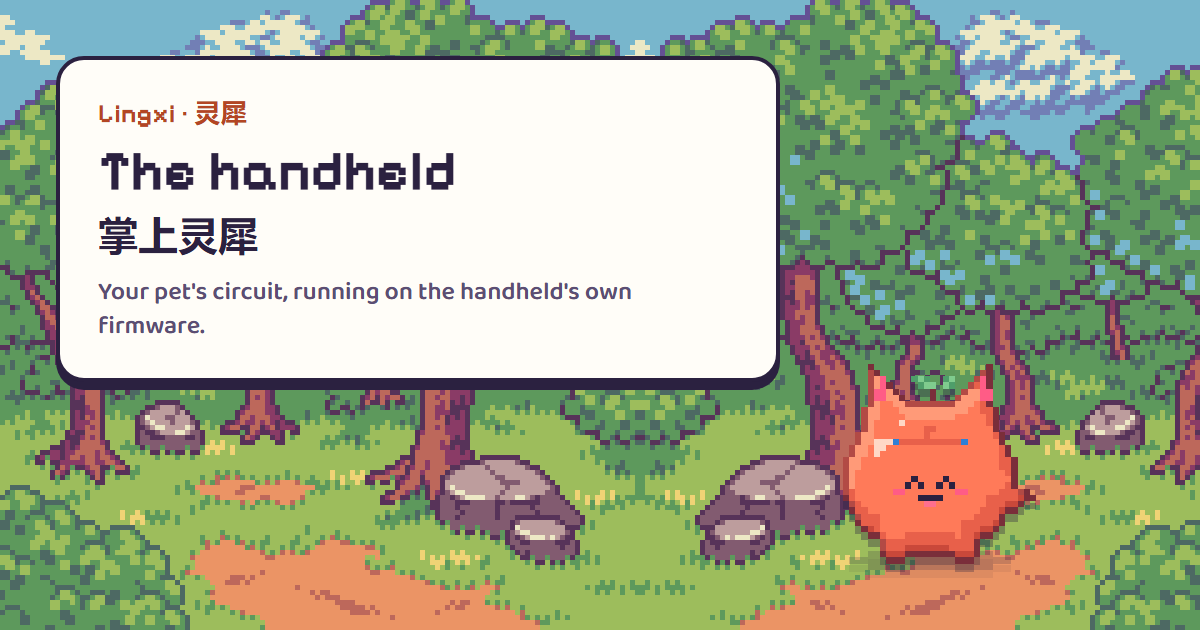
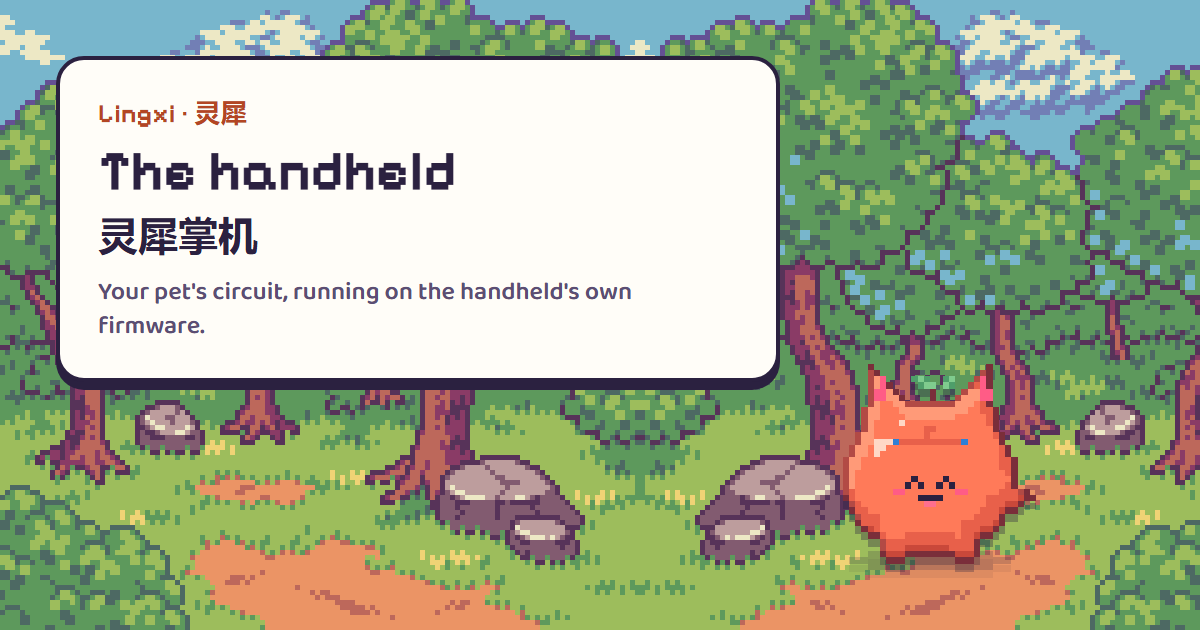
feat(web): one word for each of the game's terms, held by a glossary check
P6. Some terms appeared under two Chinese names, so a player could take one
thing for two: the arena (竞技场 and 切磋场), the handheld (灵犀掌机 and
掌上灵犀), a pet left with a sitter (照看 and 托管), and verifying (验证 and
核验; the proof page's tab title even said 核对 while its heading said
验证). glossary.ts names each term once in both languages, with what it
means, and glossary.test.ts fails on any word it rules out across the
game, the world's characters and the static pages.

Changed region(s): [[0.0617, 0.3317, 0.2158, 0.4222]]

diff --git a/apps/web/src/i18n/glossary.ts b/apps/web/src/i18n/glossary.ts
@@ -1,0 +1,67 @@
+/**
+ * P6: the game's terms, one word each in English and in Chinese. A player who meets the same thing under two names
+ * thinks they are two things; glossary.test.ts fails when any shown text uses a word this list rules out. Where a
+ * Chinese word has another, unrelated meaning the game also uses (托管 is the red packet's escrow), only the phrasing
+ * that means this term is ruled out.
+ */
+
+export interface Term {
+  en: string;
+  zh: string;
+  /** what the term means here, so a new string can pick the right word */
+  means: string;
+  /** Chinese renderings of this term the game does not use */
+  notZh?: readonly RegExp[];
+  /** English renderings of this term the game does not use */
+  notEn?: readonly RegExp[];
+}
+
+export const GLOSSARY: readonly Term[] = [
+  { en: "pet", zh: "宠物", means: "the creature a player raises" },
+  { en: "mind", zh: "心智", means: "everything a pet has learned, as the circuit that decides what it does" },
+  { en: "brain", zh: "大脑", means: "the circuit itself, as gates and latches; a pet's mind runs on its brain" },
+  { en: "circuit", zh: "电路", means: "a netlist of NAND gates and latches", notZh: [/线路/] },
+  { en: "NAND gate", zh: "与非门", means: "the one kind of gate every circuit is made of", notZh: [/逻辑门/] },
+  { en: "lesson", zh: "课", means: "one rule a player teaches, in their own words", notZh: [/教程/] },
+  { en: "instinct", zh: "本能", means: "a rule a pet is born with or adopts", notZh: [/天性/, /直觉/] },
+  {
+    en: "tape out (verb), tape-out (noun)",
+    zh: "流片",
+    means: "turning a circuit into a TapeOut token on X Layer",
+    notZh: [/刻录/],
+  },
+  {
+    en: "keep on X Layer",
+    zh: "留在 X Layer 上",
+    means: "a pet given its own record on X Layer, so its mind is taped out and its days can be saved",
+    notZh: [/放到链上/],
+  },
+  { en: "save a day", zh: "存到 X Layer 上", means: "writing one day of a kept pet's memory to X Layer" },
+  { en: "spar", zh: "切磋", means: "a friendly fight between two pets' circuits", notZh: [/对练/, /比试/] },
+  { en: "arena", zh: "竞技场", means: "the run of fights against other players' pets", notZh: [/切磋场/, /擂台/] },
+  { en: "season", zh: "赛季", means: "the weekly standings", notZh: [/季赛/] },
+  {
+    en: "sitter",
+    zh: "照看",
+    means: "a friend who looks after a pet while its owner is away",
+    notZh: [/托管(?:的)?宠物/, /寄养/],
+  },
+  { en: "diary", zh: "日记", means: "a pet's own account of its day", notZh: [/手记/] },
+  { en: "resident", zh: "居民", means: "one of the world's characters who live in its rooms", notZh: [/住户/] },
+  {
+    en: "Builders' Lane",
+    zh: "建设者小巷",
+    means: "the lane of five pets made as tributes to TapeOut builders",
+    notZh: [/建造者小巷/, /建设者之巷/, /开发者小巷/, /建设者街/],
+    notEn: [/Builders Lane/, /Builder's Lane/],
+  },
+  { en: "handheld", zh: "掌机", means: "the pocket device that runs a pet's circuit", notZh: [/掌上灵犀/, /掌上设备/] },
+  {
+    en: "verify",
+    zh: "验证",
+    means: "proving something against X Layer or a published source (the proof page, a contract's source)",
+    notZh: [/核验/],
+  },
+  { en: "check", zh: "核对", means: "comparing two things to see they agree (a pet against its record)" },
+  { en: "outfit", zh: "衣服", means: "something a pet wears; the market for them is the fashion market, 时装市场" },
+];

diff --git a/apps/web/src/info/InfoApp.tsx b/apps/web/src/info/InfoApp.tsx
@@ -47,12 +47,12 @@ const PRIVACY: Section[] = [
     p: [
       ["Your pet's home, as you decorate it, so friends who drop by see it.", "你布置的宠物的家，好让来串门的朋友看到。"],
       ["A pet you leave with a sitter, and what you pack for it, until you take it back.", "你托付给别人照看的宠物和你为它准备的行李，直到你接回它。"],
-      ["Pets you enter in the arena or the weekly season, with their names and the cards that describe them, for the standings.", "你送去切磋场或每周赛季的宠物，连同名字和描述它的卡片，用来排名。"],
+      ["Pets you enter in the arena or the weekly season, with their names and the cards that describe them, for the standings.", "你送去竞技场或每周赛季的宠物，连同名字和描述它的卡片，用来排名。"],
       ["Lessons you choose to share in the library, and diaries you choose to publish.", "你选择分享到课程库的课，以及你选择发布的日记。"],
       ["If you turn reminders on: the address your browser gives for notifications and the times you chose, until you turn them off.", "如果你打开提醒：浏览器提供的通知地址和你选的时间，直到你关闭提醒。"],
       [
         "To keep the service fair (how often a network may ask for things, how much of the day's language model it may use), a code made from your network address with a key only our server holds. The code cannot be turned back into the address. It is kept only beside what it limits (an arena or season entry, a pet left with a sitter, a reminder, the day's model use) and goes when that does.",
-        "为了让服务公平（一个网络多久能请求一次、能用掉当天多少语言模型额度），我们保存一个由你的网络地址加上只有我们服务器才有的密钥算出的代码。这个代码无法还原成地址。它只和它所限制的东西放在一起（切磋场或赛季的报名、托付照看的宠物、提醒、当天的模型额度），那些东西没了，它也就没了。",
+        "为了让服务公平（一个网络多久能请求一次、能用掉当天多少语言模型额度），我们保存一个由你的网络地址加上只有我们服务器才有的密钥算出的代码。这个代码无法还原成地址。它只和它所限制的东西放在一起（竞技场或赛季的报名、托付照看的宠物、提醒、当天的模型额度），那些东西没了，它也就没了。",
       ],
     ],
   },
@@ -112,7 +112,7 @@ const TERMS: Section[] = [
     p: [
       [
         "Names, lessons, letters and diaries are yours. Do not use them to harass anyone, to share someone else's private information, or to break the law. What you publish (a diary, a shared lesson, a pet in the arena) can be seen by other players; offensive names are shown as \"Pet\".",
-        "名字、课、信和日记都属于你。不要用它们骚扰他人、泄露他人隐私或违法。你发布的内容（日记、分享的课、切磋场里的宠物）其他玩家都能看到；冒犯性的名字会显示为“Pet”。",
+        "名字、课、信和日记都属于你。不要用它们骚扰他人、泄露他人隐私或违法。你发布的内容（日记、分享的课、竞技场里的宠物）其他玩家都能看到；冒犯性的名字会显示为“Pet”。",
       ],
     ],
   },

diff --git a/apps/web/src/agents/AgentsApp.tsx b/apps/web/src/agents/AgentsApp.tsx
@@ -169,7 +169,7 @@ export function AgentsApp() {
         <pre>{`curl -X POST ${PUBLIC}/api/v1/pet \\
   -H 'content-type: application/json' \\
   -d '{"id":"my-1","params":{"id":"1"}}'`}</pre>
-        <p className="small">{L("To check it, TapeAPI's own client resolves the service from X Layer and verifies each answer:", "要核对，可以用 TapeAPI 自己的客户端：它从 X Layer 解析服务，再逐个核验回答：")}</p>
+        <p className="small">{L("To check it, TapeAPI's own client resolves the service from X Layer and verifies each answer:", "要核对，可以用 TapeAPI 自己的客户端：它从 X Layer 解析服务，再逐个验证回答：")}</p>
         <pre>{`npm install ${TAPEAPI_SDK}
 
 // save as try.mjs, then run: node try.mjs
@@ -197,7 +197,7 @@ else console.log(result.name, result.owner, verified)`}</pre>
         <p className="small">
           {L(
             "For a model: reading a pet, running a spar and proposing a lesson (which checks a rule and shows which situations it changes, teaching nothing) are tools of an MCP server at /mcp. The manifest pins the tools' definitions by their SHA-256 (TAP-15), and each tool is also a signed method. In an MCP host, TapeAPI's tapeapi-mcp checks the tools against that pin and every answer against the chain:",
-            "给模型用：读取宠物、切磋、提议一课（检查一条规则、说明它会改变哪些情况，不会真的教）是 /mcp 上 MCP 服务器的工具。服务清单用 SHA-256 钉住这些工具的定义（TAP-15），每个工具同时也是一个签名方法。在 MCP 客户端里，TapeAPI 的 tapeapi-mcp 会对照这个摘要检查工具，并对照链上核验每个回答：",
+            "给模型用：读取宠物、切磋、提议一课（检查一条规则、说明它会改变哪些情况，不会真的教）是 /mcp 上 MCP 服务器的工具。服务清单用 SHA-256 钉住这些工具的定义（TAP-15），每个工具同时也是一个签名方法。在 MCP 客户端里，TapeAPI 的 tapeapi-mcp 会对照这个摘要检查工具，并对照链上验证每个回答：",
           )}
         </p>
         <pre>{`{

diff --git a/apps/web/src/OnChainNote.tsx b/apps/web/src/OnChainNote.tsx
@@ -59,7 +59,7 @@ const TEXT = {
       "实时房间、朋友来访、共享装饰、共享课程库和提醒。",
       "游戏对 X Layer 的读取，以及你的钱包签好的交易，由它转发给 X Layer 的公共节点（它改不了你钱包签过的内容）。",
       "你选择发送的：搬到另一台设备的存档（保留 15 分钟）、发布的日记、短的切磋链接、竞技场和赛季的参赛（宠物的卡片）、托朋友照看的宠物、领养文书、请灵犀流片的新心智，以及请灵犀替你把宠物留在链上的请求（由这台设备自己的密钥签名，附上宠物的品种和状态）。",
-      "游戏从它读取的：时间、邮件、它是否在线、每周赛季、竞技场对手和陪练、切磋链接、课程库里的课、托朋友照看的宠物、领养文书、发布的日记和每只宠物的经历、繁育同意、红包领取记录、道具兑换券、下架的市场挂单，以及 Sourcify 对合约的核验结果；还有服务器从 X Layer 读来的每日挑战区块、家族树、建设者小巷的流片计数、目标、各项数字，以及一个钱包持有哪些 TapeCode-Test1（游戏会在链上核对的提示）。",
+      "游戏从它读取的：时间、邮件、它是否在线、每周赛季、竞技场对手和陪练、切磋链接、课程库里的课、托朋友照看的宠物、领养文书、发布的日记和每只宠物的经历、繁育同意、红包领取记录、道具兑换券、下架的市场挂单，以及 Sourcify 对合约的验证结果；还有服务器从 X Layer 读来的每日挑战区块、家族树、建设者小巷的流片计数、目标、各项数字，以及一个钱包持有哪些 TapeCode-Test1（游戏会在链上核对的提示）。",
     ],
     noServer: "这个链上版本不带自己的服务器：AI 教学、说话和实时房间都关掉了。它的验证页只向灵犀的索引服务要公开的东西（该读哪些交易、主人发布的日志），每一样都先在 X Layer 上核对再显示。",
   },

diff --git a/apps/web/src/verify/Endpoints.tsx b/apps/web/src/verify/Endpoints.tsx
@@ -27,8 +27,8 @@ const T = {
   },
   zh: {
     title: "这些证明从哪里来",
-    lede: "本页对 X Layer 的每一次读取都来自你的浏览器：如果你填了自己的 RPC，会先问它，再问 X Layer 的公共 RPC，只有它们全部失败时才会问灵犀的服务器。有三样东西来自灵犀的服务器：Sourcify 对合约的核验结果（每一行都链接到 Sourcify 本身）、宠物的经历（每一行都链接到它在 X Layer 上的交易），以及发布的日记（显示之前先对照 X Layer 核对）。",
-    ledeOnChain: "本页对 X Layer 的每一次读取都来自你的浏览器：如果你填了自己的 RPC，会先问它，再问 X Layer 的公共 RPC。这一份页面本身就存放在 X Layer 上，没有可以退回去问的服务器。合约的 Sourcify 核验结果直接询问 Sourcify；宠物的经历和发布的日记来自灵犀的索引服务（每一行经历都链接到它在 X Layer 上的交易，日记在显示之前先对照 X Layer 核对）。",
+    lede: "本页对 X Layer 的每一次读取都来自你的浏览器：如果你填了自己的 RPC，会先问它，再问 X Layer 的公共 RPC，只有它们全部失败时才会问灵犀的服务器。有三样东西来自灵犀的服务器：Sourcify 对合约的验证结果（每一行都链接到 Sourcify 本身）、宠物的经历（每一行都链接到它在 X Layer 上的交易），以及发布的日记（显示之前先对照 X Layer 核对）。",
+    ledeOnChain: "本页对 X Layer 的每一次读取都来自你的浏览器：如果你填了自己的 RPC，会先问它，再问 X Layer 的公共 RPC。这一份页面本身就存放在 X Layer 上，没有可以退回去问的服务器。合约的 Sourcify 验证结果直接询问 Sourcify；宠物的经历和发布的日记来自灵犀的索引服务（每一行经历都链接到它在 X Layer 上的交易，日记在显示之前先对照 X Layer 核对）。",
     asked: "询问顺序",
     answered: "目前的回答",
     none: "还没有",

diff --git a/apps/web/src/i18n/glossary.test.ts b/apps/web/src/i18n/glossary.test.ts
@@ -1,0 +1,45 @@
+/**
+ * P6: no shown text uses a word the glossary rules out (glossary.ts). Every page, the game, the world's characters
+ * and the static pages are read; a hit names the file, the line and the word to use instead.
+ */
+import { readdirSync, readFileSync, statSync } from "node:fs";
+import { join, relative } from "node:path";
+import { describe, expect, it } from "vitest";
+import { GLOSSARY } from "./glossary";
+
+const repo = join(import.meta.dirname, "..", "..", "..", "..");
+const SOURCES = ["apps/web/src", "packages/world/src", "packages/game/src", "apps/web/public/404.html", "apps/web/public/circuits.html", "scripts/lib/shareCards.mts"];
+
+function files(path: string): string[] {
+  const full = join(repo, path);
+  if (statSync(full).isFile()) return [full];
+  return readdirSync(full, { recursive: true, encoding: "utf8" })
+    .filter((f) => /\.(tsx?|mts|html)$/.test(f) && !/\.test\.|glossary\.ts$/.test(f) && !f.includes("node_modules"))
+    .map((f) => join(full, f));
+}
+
+const texts = SOURCES.flatMap(files).map((f) => ({ file: relative(repo, f).split("\\").join("/"), lines: readFileSync(f, "utf8").split("\n") }));
+
+describe("the glossary (P6)", () => {
+  it("reads the game's text", () => {
+    expect(texts.length).toBeGreaterThan(100);
+  });
+
+  for (const term of GLOSSARY) {
+    const ruledOut = [...(term.notZh ?? []).map((r) => ({ r, use: term.zh })), ...(term.notEn ?? []).map((r) => ({ r, use: term.en }))];
+    if (ruledOut.length === 0) continue;
+    it(`"${term.en}" is "${term.zh}" in Chinese, one word each way`, () => {
+      const hits: string[] = [];
+      for (const { file, lines } of texts)
+        lines.forEach((line, i) => {
+          for (const { r, use } of ruledOut) if (r.test(line)) hits.push(`${file}:${i + 1}: ${line.match(r)?.[0]} (use ${use})`);
+        });
+      expect(hits).toEqual([]);
+    });
+  }
+
+  it("names each term once", () => {
+    const zh = GLOSSARY.map((t) => t.zh);
+    expect(new Set(zh).size).toBe(zh.length);
+  });
+});

diff --git a/apps/web/src/play/Sitting.tsx b/apps/web/src/play/Sitting.tsx
@@ -122,7 +122,7 @@ export function SitPanel({ pet }: { pet: Pet }) {
                       : "This address already has 8 pets' saves waiting with friends (each is kept for a week after its sitting ends). Send this one once the oldest has been let go. Nothing was sent."
                     : firstLine(e) === "full"
                       ? lang === "zh"
-                        ? "灵犀存放托管宠物的空间暂时满了。什么都没有发出去，它还在你身边；过几天再试。"
+                        ? "灵犀存放托人照看的宠物的空间暂时满了。什么都没有发出去，它还在你身边；过几天再试。"
                         : "Lingxi's shelf for pets with friends is full for now. Nothing was sent; it is still with you. Try again in a few days."
                       : firstLine(e) === "busy"
                         ? lang === "zh"

diff --git a/apps/web/src/i18n/pageMeta.ts b/apps/web/src/i18n/pageMeta.ts
@@ -33,7 +33,7 @@ export const PAGE_META: Record<Page, { title: Both; description: Both }> = {
   index: { title: { en: "Lingxi · Raise a little mind", zh: "灵犀 · 养一个小小的心智" }, description: OPENING },
   play: { title: { en: "Lingxi · 灵犀", zh: "灵犀 · Lingxi" }, description: OPENING },
   verify: {
-    title: { en: "Verify a Lingxi pet", zh: "核对一只灵犀宠物" },
+    title: { en: "Verify a Lingxi pet", zh: "验证一只灵犀宠物" },
     description: {
       en: "Check a Lingxi pet against X Layer from your own browser: its brain, its saved memory and its published diary.",
       zh: "在你自己的浏览器里对照 X Layer 核对一只灵犀宠物：它的大脑、保存的记忆和发布的日记。",

diff --git a/apps/web/src/i18n/pageMeta.test.ts b/apps/web/src/i18n/pageMeta.test.ts
@@ -29,7 +29,7 @@ describe("each page's language, title and description (A111)", () => {
     document.head.innerHTML = '<title>x</title><meta name="description" content="x">';
     applyPageMeta("verify", "zh");
     expect(document.documentElement.lang).toBe("zh-CN");
-    expect(document.title).toBe("核对一只灵犀宠物");
+    expect(document.title).toBe("验证一只灵犀宠物");
     expect(document.querySelector('meta[name="description"]')!.getAttribute("content")).toBe(PAGE_META.verify.description.zh);
     applyPageMeta("verify", "en");
     expect(document.documentElement.lang).toBe("en");

diff --git a/apps/web/handheld.html b/apps/web/handheld.html
@@ -18,7 +18,7 @@
     <meta property="og:image" content="https://lingxi.knole.me/cards/handheld.png" />
     <meta property="og:image:width" content="1200" />
     <meta property="og:image:height" content="630" />
-    <meta property="og:image:alt" content="The handheld · 掌上灵犀" />
+    <meta property="og:image:alt" content="The handheld · 灵犀掌机" />
     <meta property="og:locale" content="en_US" />
     <meta property="og:locale:alternate" content="zh_CN" />
     <meta name="twitter:card" content="summary_large_image" />

diff --git a/apps/web/src/handheld/HandheldApp.tsx b/apps/web/src/handheld/HandheldApp.tsx
@@ -305,7 +305,7 @@ export function HandheldApp() {
         <a className="hh-back" href="play.html">
           {L("← Lingxi", "← 灵犀")}
         </a>
-        <h1>{L("The handheld", "掌上灵犀")}</h1>
+        <h1>{L("The handheld", "灵犀掌机")}</h1>
         <p className="hh-sub">
           {L(
             "The Cardputer's own firmware, running in your browser: the same C code, the same screen, and the same circuit the pet thinks with at home (read from X Layer when its mind is on chain).",
